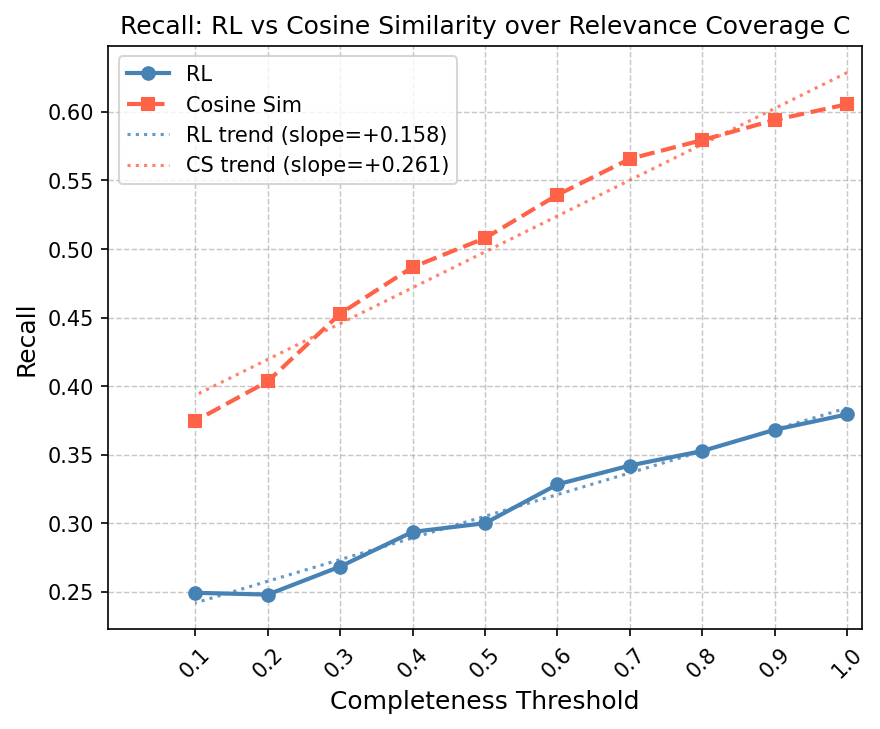
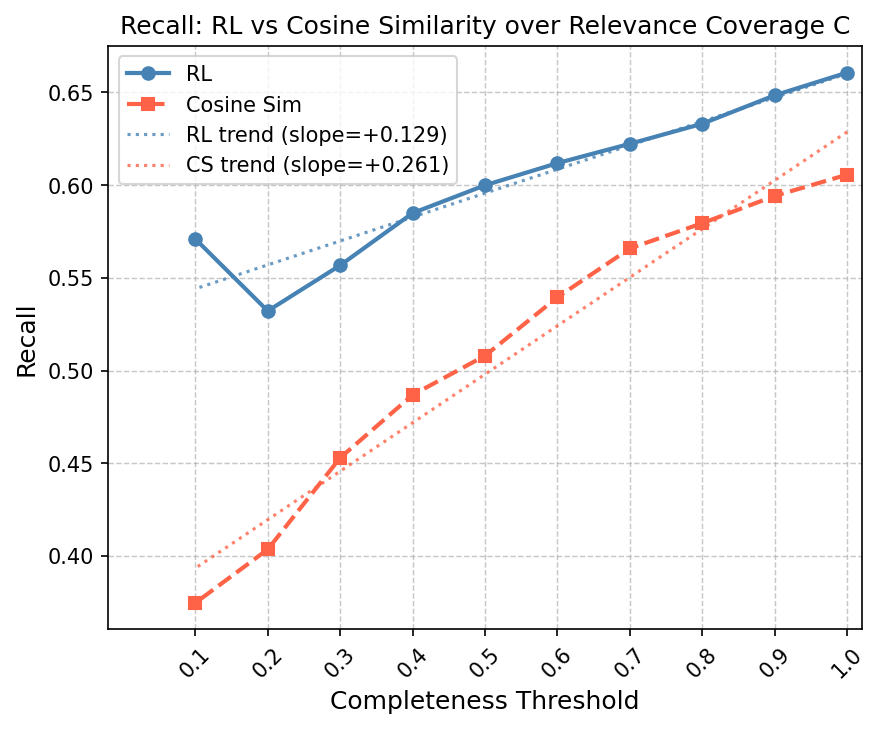
analysis

diff --git a/retrieval/retrieval_5_2_rl_test.py b/retrieval/retrieval_5_2_rl_test.py
@@ -59,25 +59,40 @@ def compute_stream_feature_importance(online_net, data, query_ids, device, max_e
             state_emb_var = state_emb.clone().detach().unsqueeze(0).requires_grad_(True)
             state_meta_var = state_meta.clone().detach().unsqueeze(0).requires_grad_(True)
 
+            # Fresh forward pass
             q_vals, v_stream, a_stream = online_net(
                 state_emb_var, state_meta_var, return_streams=True
             )
 
-            v_scalar = v_stream.sum()
-            a_scalar = a_stream.abs().sum()
+            action = q_vals.argmax().item()
+
+            # --- Value stream saliency ---
+            v_scalar = v_stream.sum()  # V is already scalar-like
 
             online_net.zero_grad()
+            if state_emb_var.grad is not None:
+                state_emb_var.grad.zero_()
+            if state_meta_var.grad is not None:
+                state_meta_var.grad.zero_()
+
             v_scalar.backward(retain_graph=True)
+
             emb_grad_v = state_emb_var.grad.detach().squeeze(0).abs().cpu()
             meta_grad_v = state_meta_var.grad.detach().squeeze(0).abs().cpu()
 
+            # --- Advantage stream saliency (selected action only) ---
+            a_scalar = a_stream[0, action]  # backprop through chosen action's advantage
+
+            online_net.zero_grad()
             state_emb_var.grad.zero_()
             state_meta_var.grad.zero_()
 
             a_scalar.backward()
+
             emb_grad_a = state_emb_var.grad.detach().squeeze(0).abs().cpu()
             meta_grad_a = state_meta_var.grad.detach().squeeze(0).abs().cpu()
 
+            # --- Accumulate ---
             if emb_sum_v is None:
                 emb_sum_v = emb_grad_v.clone()
                 emb_sum_a = emb_grad_a.clone()
@@ -91,22 +106,17 @@ def compute_stream_feature_importance(online_net, data, query_ids, device, max_e
 
             total_states += 1
 
-            action = q_vals.argmax().item()
+            # --- Step environment ---
             if action == 0:
                 next_emb, next_meta, reward, done, truncated = topic.skip()
-                #s += 1
             elif action == 1:
-                next_emb, next_meta, reward, done, truncated= topic.take_single()
-                #a1 += 1
+                next_emb, next_meta, reward, done, truncated = topic.take_single()
             elif action == 2:
                 next_emb, next_meta, reward, done, truncated = topic.take_double()
-                #a2f += 1
             elif action == 3:
                 next_emb, next_meta, reward, done, truncated = topic.take_prev_double()
-                #a2b += 1
             elif action == 4:
                 next_emb, next_meta, reward, done, truncated = topic.take_triple()
-                #a3 += 1
 
             state_emb = next_emb.to(device)
             state_meta = next_meta.to(device)
@@ -121,8 +131,13 @@ def compute_stream_feature_importance(online_net, data, query_ids, device, max_e
 
     emb_len = emb_mean_v.numel()
     groups = len(emb_group_names)
-    group_size = emb_len // groups
 
+    assert emb_len % groups == 0, (
+        f"Embedding length {emb_len} is not divisible by number of groups {groups}. "
+        f"Check emb_group_names or embedding shape."
+    )
+
+    group_size = emb_len // groups
     emb_mean_v_groups = emb_mean_v.view(groups, group_size).mean(dim=1).numpy()
     emb_mean_a_groups = emb_mean_a.view(groups, group_size).mean(dim=1).numpy()
 
@@ -149,7 +164,7 @@ def compute_stream_feature_importance(online_net, data, query_ids, device, max_e
     plt.legend()
     plt.tight_layout()
     plt.grid(True)
-    plt.savefig("value_vs_advantage_importance.png")
+    plt.savefig("feature_importance/value_vs_advantage_importance.png")
     plt.close()
 
 
@@ -247,14 +262,14 @@ def test():
 
     # logging.basicConfig(filename='rl_testing.log', level=logging.INFO, format='%(asctime)s - %(message)s', filemode="w")
 
-    pages_path_test = f"data_3_embed/pages_chunked_emb_test.json"
-    relevant_path_test = f"data_3_embed/relevant_chunks_emb_test.json"
-    cosine_sim_path_test = "data_4_cos_sim/cosine_sim_rank_threshold_only_single_test.json"
+    # pages_path_test = f"data_3_embed/pages_chunked_emb_test.json"
+    # relevant_path_test = f"data_3_embed/relevant_chunks_emb_test.json"
+    # cosine_sim_path_test = "data_4_cos_sim/cosine_sim_rank_threshold_only_single_test.json"
 
-    data_test = Data(pages_path_test, relevant_path_test, cosine_sim_path_test)
-    data_test.load_pages()
-    data_test.load_relevant()
-    data_test.load_cosine_sim()
+    # data_test = Data(pages_path_test, relevant_path_test, cosine_sim_path_test)
+    # data_test.load_pages()
+    # data_test.load_relevant()
+    # data_test.load_cosine_sim()
 
     # Set device
     device = torch.device("mps" if torch.backends.mps.is_available() else "cpu")
@@ -280,16 +295,16 @@ def test():
 
         #############
 
-    # pages_path = "data_3_embed/pages_chunked_emb_train.json"
-    # relevant_path = "data_3_embed/relevant_chunks_emb_train.json"
-    # cosine_sim_path = "data_4_cos_sim/cosine_sim_rank_threshold_only_single_train.json" #_train
+    pages_path = "data_3_embed/pages_chunked_emb_train.json"
+    relevant_path = "data_3_embed/relevant_chunks_emb_train.json"
+    cosine_sim_path = "data_4_cos_sim/cosine_sim_rank_threshold_only_single_train.json" #_train
 
-    # data_train = Data(pages_path, relevant_path, cosine_sim_path)
-    # data_train.load_pages()
-    # data_train.load_relevant()
-    # data_train.load_cosine_sim()
+    data_train = Data(pages_path, relevant_path, cosine_sim_path)
+    data_train.load_pages()
+    data_train.load_relevant()
+    data_train.load_cosine_sim()
 
     compute_stream_feature_importance(
-        model, data_test, data_test.query_ids, device, max_exp_loops = 1, n_samples=200 #  + validation_set
+        model, data_train, data_train.query_ids, device, max_exp_loops = 1, n_samples=200 #  + validation_set
     )
 

diff --git a/retrieval/retrieval_5_3_analysis.py b/retrieval/retrieval_5_3_analysis.py
@@ -316,7 +316,7 @@ def analyze():
     print(f"Average Cosine Similarity F1 Score: {metrics['avg_cos_sim_f1_score']:.6f}")
     print(f"{'='*50}")
 
-    completeness_threshold = 1 # 0.8 means chunks with more than 80% relevant are removed
+    completeness_threshold = 0 # 0.8 means chunks with more than 80% relevant are removed
 
     filtered_results = process_all_queries(final_data, completeness_threshold, topk = 100)
 

diff --git a/main.py b/main.py
@@ -27,9 +27,9 @@ def main():
     # embed('test')
 
     # Evaluate RL model on test data using trained model
-    test()
+    #test()
 
-    # analyze()
+    analyze()
 
 
 
